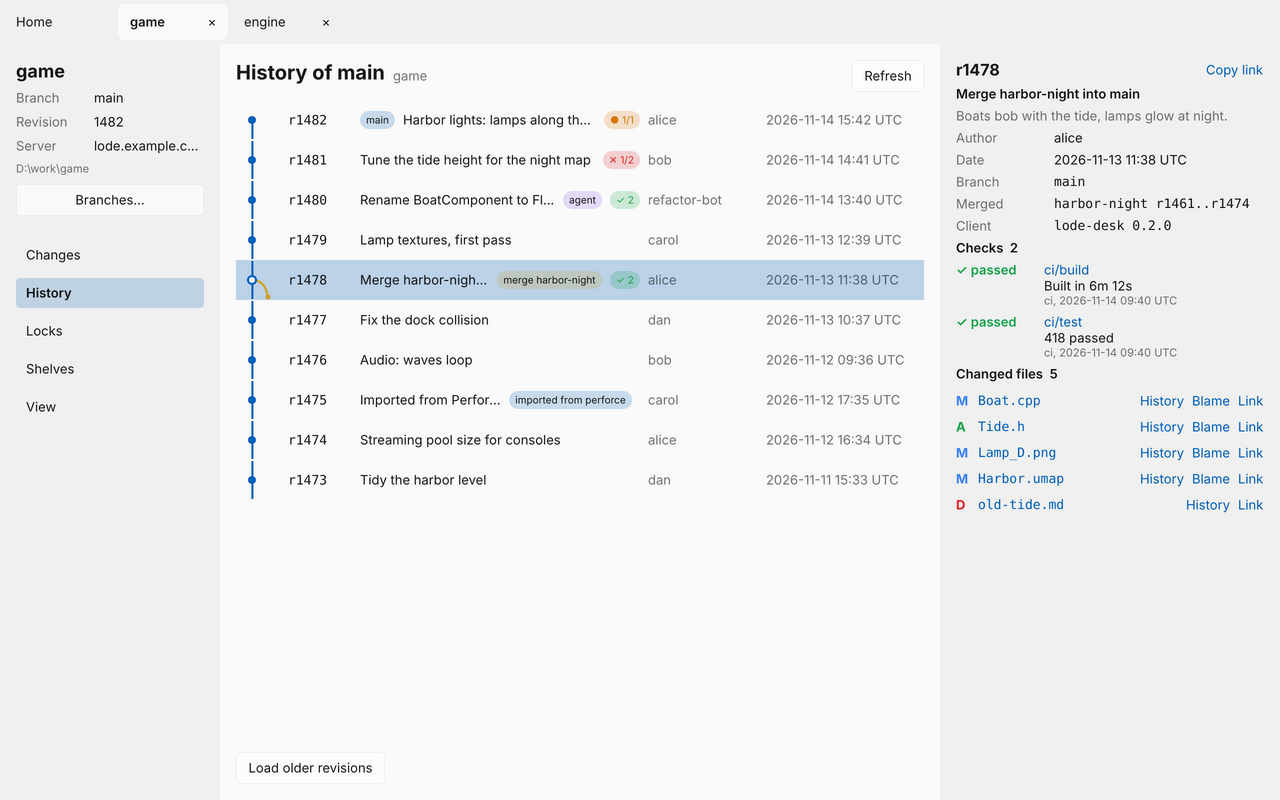
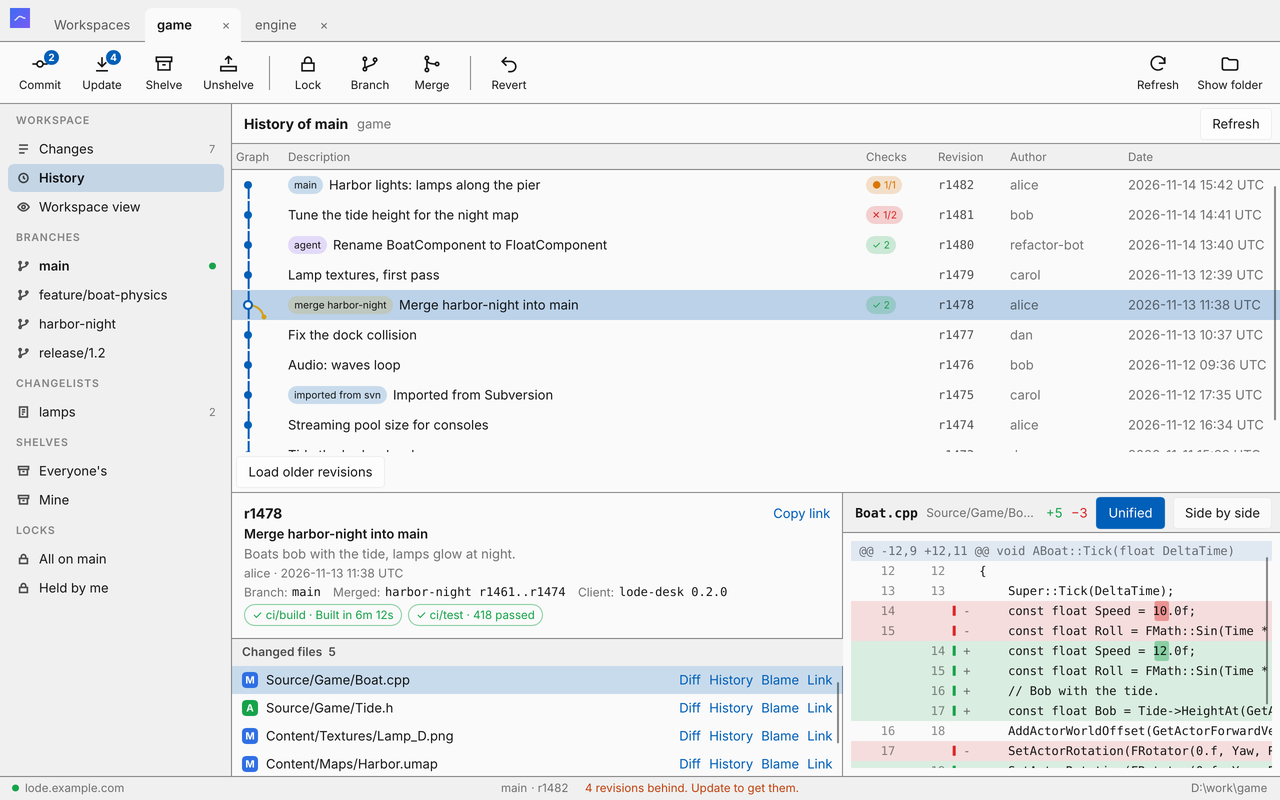
Remove Sourcetree, Perforce and UmpaLumpa from the docs
Reword the mentions in place: the Lode SPEC intro and non-goals, the
M9 and M16 task notes, and the Unreal plugin spec. The Lode Desk
screenshot sample now shows a revision imported from Subversion, and
the guide's history screenshot is re-rendered. The self-update tests
use a neutral foreign tag (other-v9.0.0) for the release they ignore.

Claude-Session: https://claude.ai/code/session_01J4KbazuErDa3GQcHuY2ve2

diff --git a/lode/crates/lode-desk/examples/screenshots.rs b/lode/crates/lode-desk/examples/screenshots.rs
@@ -815,7 +815,7 @@ fn sample_history() -> Vec<serde_json::Value> {
         ),
         rev(1477, "main", "dan", "user", "Fix the dock collision"),
         rev(1476, "main", "bob", "user", "Audio: waves loop"),
-        rev(1475, "main", "carol", "user", "Imported from Perforce"),
+        rev(1475, "main", "carol", "user", "Imported from Subversion"),
         rev(
             1474,
             "main",
@@ -835,7 +835,7 @@ fn sample_history() -> Vec<serde_json::Value> {
         {"path": "Docs/old-tide.md", "action": "delete"},
     ]);
     v[4]["provenance"] = json!({"client": "lode-desk 0.2.0"});
-    v[7]["provenance"] = json!({"imported": {"system": "perforce", "id": "12345"}});
+    v[7]["provenance"] = json!({"imported": {"system": "svn", "id": "12345"}});
     v
 }
 

diff --git a/lode/crates/lode-cli/tests/self_update.rs b/lode/crates/lode-cli/tests/self_update.rs
@@ -49,7 +49,7 @@ async fn serve(release: Release) -> String {
                     })
                     .collect();
                 Json(serde_json::json!([
-                    { "tag_name": "umpalumpa-v9.0.0", "assets": [] },
+                    { "tag_name": "other-v9.0.0", "assets": [] },
                     { "tag_name": r.tag, "draft": false, "prerelease": false, "assets": assets },
                 ]))
             }),

diff --git a/lode/crates/lode-cli/src/cmd/self_update.rs b/lode/crates/lode-cli/src/cmd/self_update.rs
@@ -405,7 +405,7 @@ mod tests {
             r("lode-v0.2.0", false),
             r("lode-v0.10.0", false),
             r("lode-v0.11.0", true),
-            r("umpalumpa-v9.0.0", false),
+            r("other-v9.0.0", false),
         ])
         .unwrap();
         assert_eq!((v, rel.tag_name.as_str()), ((0, 10, 0), "lode-v0.10.0"));

diff --git a/unreal/docs/SPEC.md b/unreal/docs/SPEC.md
@@ -4,7 +4,7 @@ Status: draft v0.1, 2026-11-12. Licence: Apache-2.0. Language: C++ (Unreal Engin
 
 ## 1. Purpose
 
-Lode is built for teams with code plus large binary files, and Unreal projects are the main case. This plugin makes Lode appear in the Unreal Editor as a revision control provider, next to the built-in Perforce, Git and Subversion providers. People who never open a terminal can then lock an asset, get the latest files, submit, and shelve work for review.
+Lode is built for teams with code plus large binary files, and Unreal projects are the main case. This plugin makes Lode appear in the Unreal Editor as a revision control provider, next to the editor's built-in providers. People who never open a terminal can then lock an asset, get the latest files, submit, and shelve work for review.
 
 It is planned from the start, together with Lode itself, so that Lode's command line gives an editor what it needs before that interface is frozen.
 
@@ -22,7 +22,7 @@ It is planned from the start, together with Lode itself, so that Lode's command 
 
 - Talking to the Lode server directly, or linking Lode's Rust code into the editor.
 - Branch creation, switching and merging from the editor. These stay in the `lode` command.
-- Showing build results from UmpaLumpa in the editor. A later version can read Lode's checks.
+- Showing build results from a build server in the editor. A later version can read Lode's checks.
 - Engines before Unreal Engine 5, and any runtime (non-editor) module.
 
 ## 3. How it works
@@ -157,5 +157,5 @@ If measurements in task T04 show that process start time dominates, the fallback
 - [x] **Which engine versions?** 5.8 only, the current release. Moving to a newer engine means checking the interface again against its headers.
 - [x] **Accept the proposed Lode task** for items 4, 7, 8 and 9 of section 5? Done in Lode T071, released in 0.2.0.
 - [x] **Who may break a lock from the editor?** Nobody in version 1; admins use `lode unlock --force`.
-- [x] **Show checks on shelves in the editor?** Not in version 1; later, once the UmpaLumpa integration runs.
+- [x] **Show checks on shelves in the editor?** Not in version 1; later, once a build server reports checks.
 - [ ] **Items 13 to 16 of section 5.** Proposed to Lode; the plugin has workarounds for each.

diff --git a/lode/docs/SPEC.md b/lode/docs/SPEC.md
@@ -9,7 +9,7 @@ Status: draft v0.1 · Licence: Apache-2.0 · Language: Rust
 Lode is a centralized, open-source version control system for small teams (up to about 100
 users) that work with a mix of source code and large binary assets.
 
-It takes Subversion's simple model as the base, adds the few Perforce features such teams miss
+It takes Subversion's simple model as the base, adds the few features such teams miss
 (exclusive locks, shelves, changelists), and treats AI agents as first-class users through MCP.
 
 ## 2. Goals
@@ -27,7 +27,7 @@ It takes Subversion's simple model as the base, adds the few Perforce features s
 ## 3. Non-goals (v1)
 
 - Offline or distributed commits. A commit needs the server.
-- Perforce-style per-file integration history and complex client view mappings.
+- Per-file integration history and complex client view mappings.
 - Built-in code review UI, issue tracking, or server-side scripting.
 - Replication, edge servers, clustering.
 - Keyword expansion, line-ending conversion, versioned empty directories.

diff --git a/lode/docs/tasks/M16.md b/lode/docs/tasks/M16.md
@@ -1,7 +1,7 @@
 # M16 — Lode 0.4: streams and smarter merge
 
 Group 3 of the v2 candidates in the plan "Lode after v1": branch types with rules for which
-way changes flow (streams, as Perforce has them), and merges that need less hand work. The
+way changes flow (streams), and merges that need less hand work. The
 person asked on 2026-11-20 to "execute all what we got in plan"; M15 was group 2.
 
 Ground rules for every task in this milestone:

diff --git a/lode/docs/tasks/M9.md b/lode/docs/tasks/M9.md
@@ -117,7 +117,7 @@ TypeScript, Vite).
 
 ## T094 — Text diff
 
-**Goal:** read changes the way people expect from Fork or SourceTree.
+**Goal:** read changes the way people expect from a desktop version control client.
 **Depends on:** T092, T093.
 **Scope:** `lode-desk`.
 
